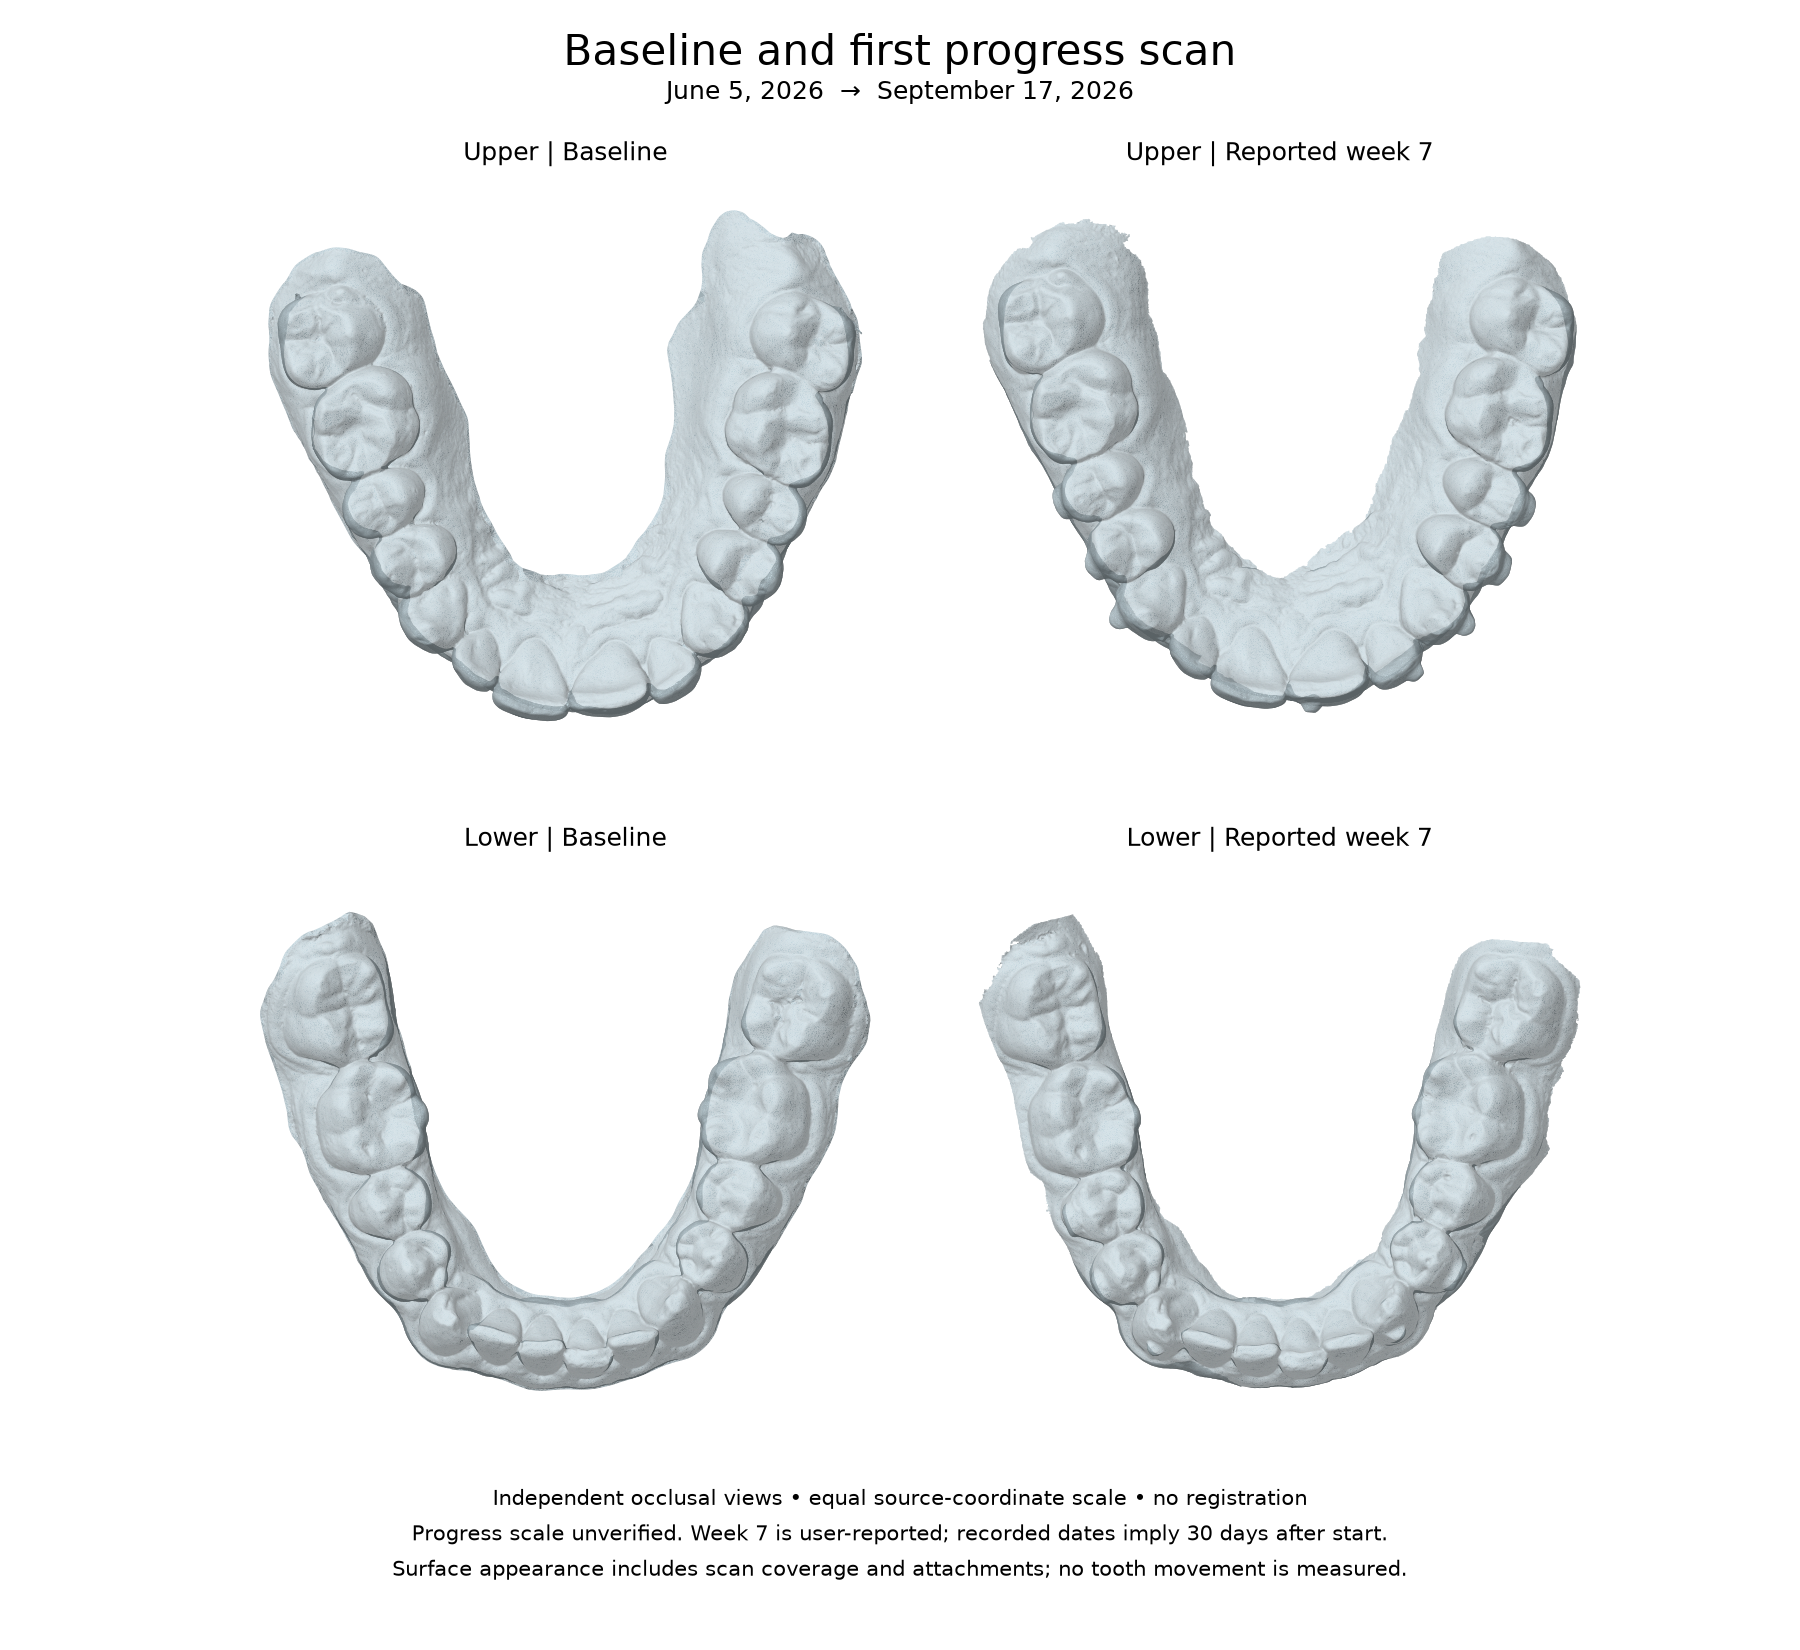
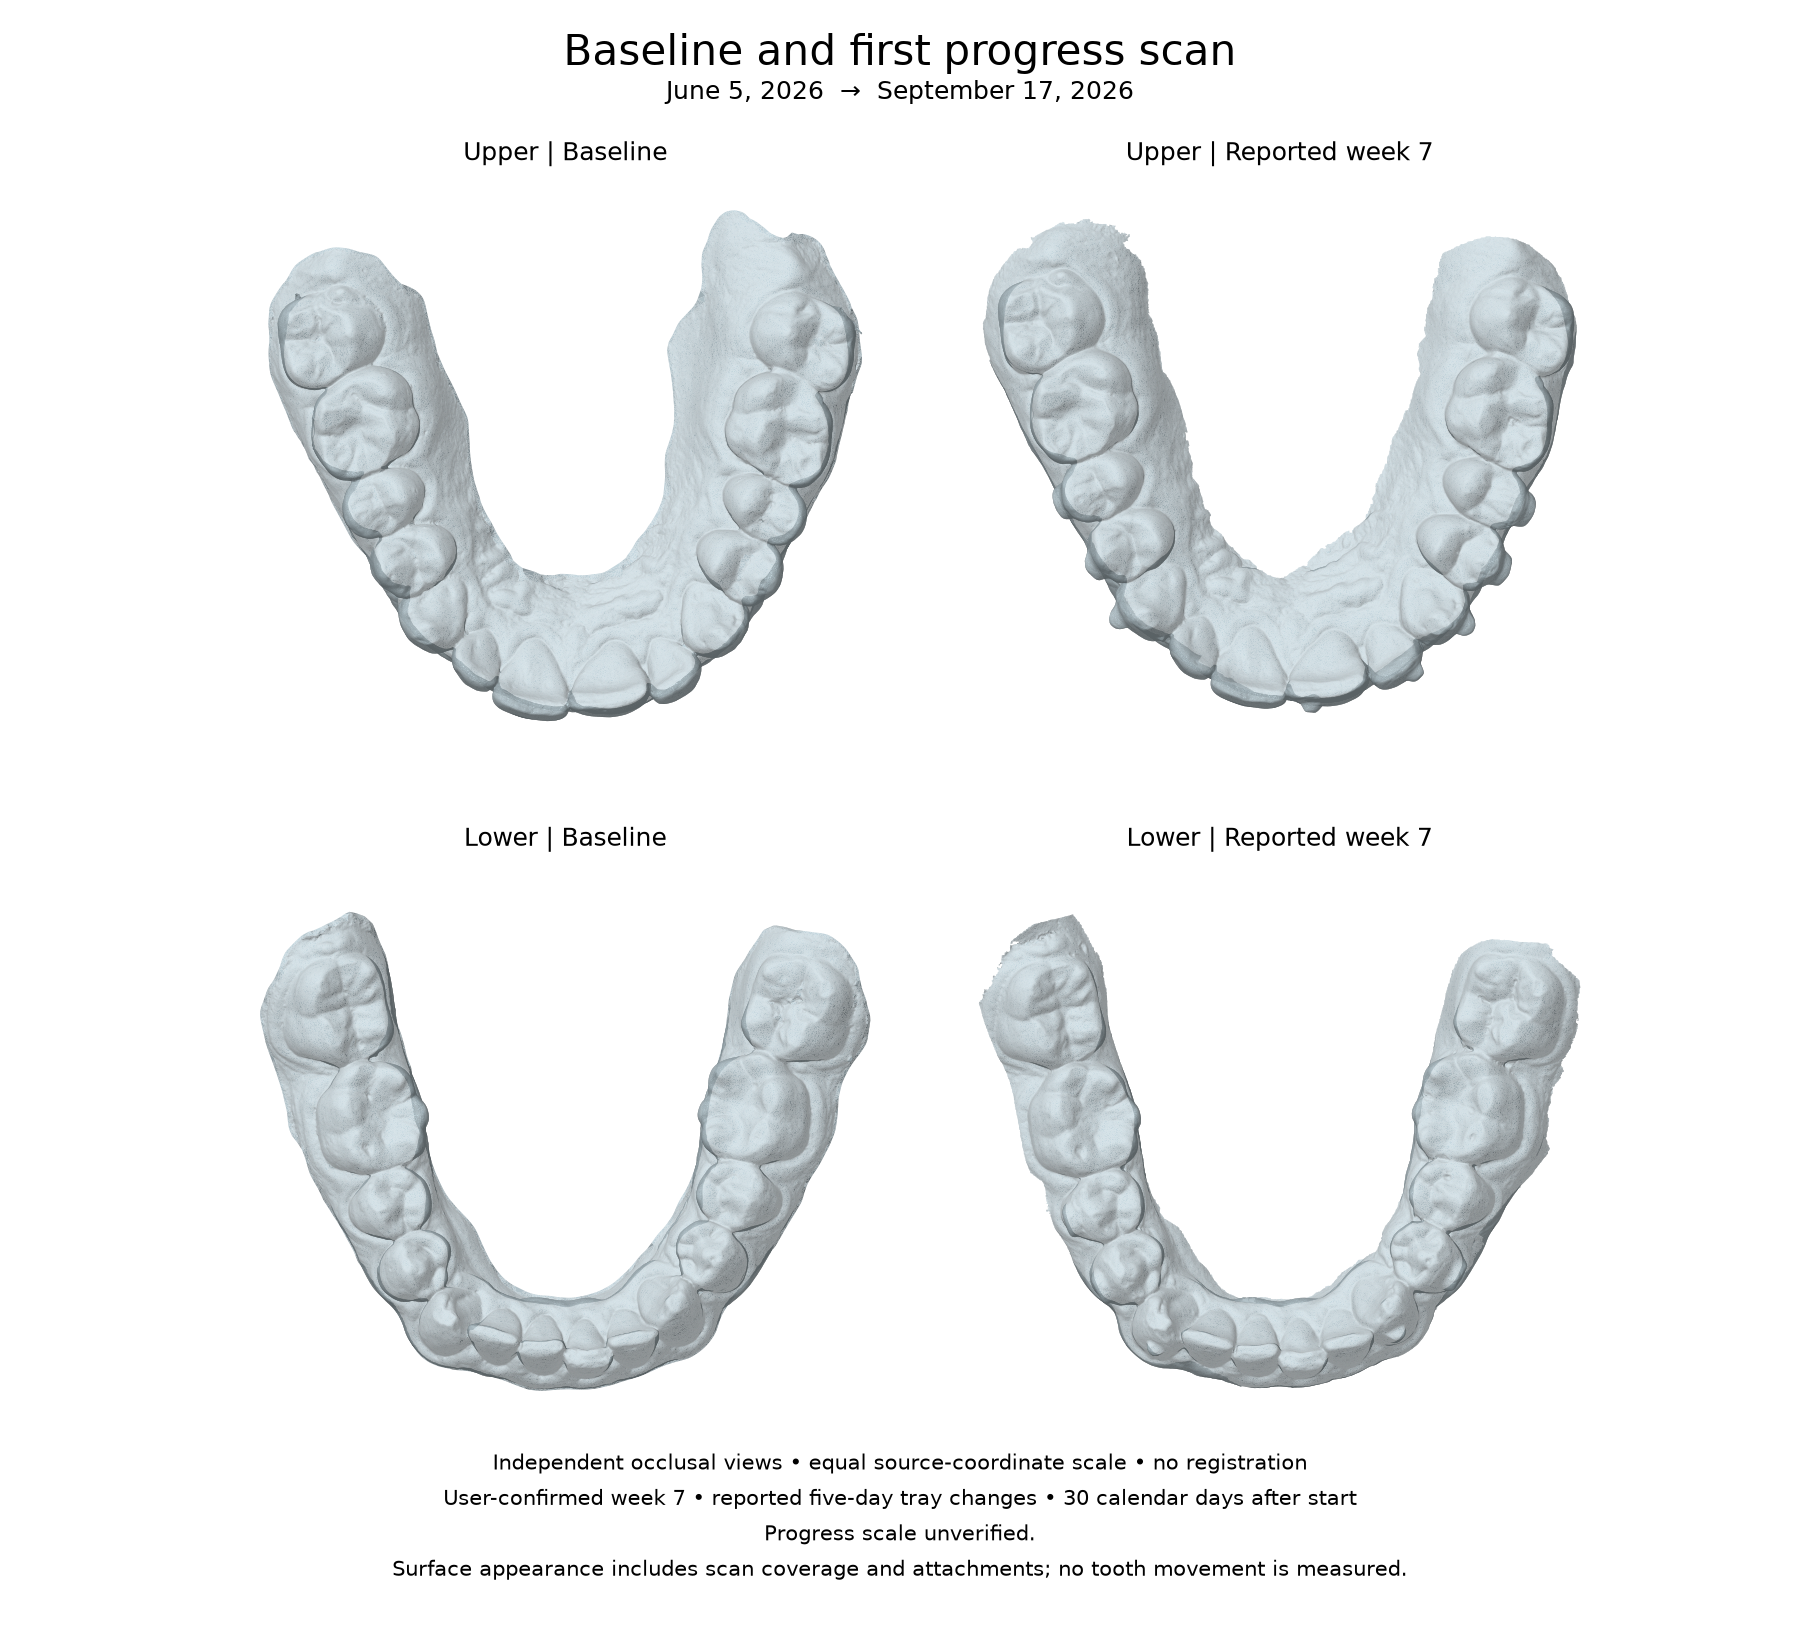
Clarify week 7 progress with reported five-day tray changes
Record the contributor-confirmed progress label and wear interval while retaining source dates and calendar elapsed time. Update case metadata, notes, comparison figure, and regression assertions; leave the historical tray-5 observation intact.

Changed region(s): [[0.2489, 0.8655, 0.7467, 0.9582]]

diff --git a/tests/test_canonical_progress.py b/tests/test_canonical_progress.py
@@ -53,12 +53,18 @@ def test_new_visits_do_not_inherit_baseline_benchmark_review():
     }
 
 
-def test_timeline_preserves_reported_week_and_date_conflict():
+def test_timeline_preserves_confirmed_progress_and_calendar_days():
     timeline = json.loads((CASE / "longitudinal-record.json").read_text())
     assert timeline["timing"]["reported_week"] == 7
     assert timeline["timing"]["recorded_treatment_start_to_progress_days"] == 30
-    assert timeline["timing"]["status"] == "unresolved-date-week-discrepancy"
+    assert timeline["timing"]["status"] == "user-confirmed-progress-label"
+    assert timeline["timing"]["reported_wear_interval_days"] == 5
+    assert timeline["timing"]["wear_interval_start_date"] is None
     assert timeline["comparison"]["final_scan_available"] is False
     context = json.loads((CASE / "treatment-context.json").read_text())
     assert context["reported_progress"]["tray_number"] == 5
     assert context["progress_records"][0]["reported_tray_number"] is None
+    assert context["progress_records"][0]["wear_interval_days"] == 5
+    assert context["reported_progress"]["wear_interval_days"] is None
+    manifest = read_manifest(CASE / "manifest.json")
+    assert manifest.plan_summary.wear_interval_days == 5

diff --git a/tools/compare_canonical_progress.py b/tools/compare_canonical_progress.py
@@ -93,7 +93,8 @@ def main() -> None:
     fig.text(0.5, 0.94, "June 5, 2026  →  September 17, 2026", ha="center", fontsize=12)
     fig.text(0.5, 0.045,
              "Independent occlusal views • equal source-coordinate scale • no registration\n"
-             "Progress scale unverified. Week 7 is user-reported; recorded dates imply 30 days after start.\n"
+             "User-confirmed week 7 • reported five-day tray changes • 30 calendar days after start\n"
+             "Progress scale unverified.\n"
              "Surface appearance includes scan coverage and attachments; no tooth movement is measured.",
              ha="center", fontsize=10, linespacing=1.7)
     fig.subplots_adjust(top=0.90, bottom=0.12, hspace=0.14, wspace=0.05)

diff --git a/ui/example-scans/canonical-orthocad-001/outcome-notes.md b/ui/example-scans/canonical-orthocad-001/outcome-notes.md
@@ -2,7 +2,8 @@
 
 This is the first longitudinal update for specimen
 `spec-07b7031938c84b1a9c98517b8bc4cdd3` (the existing User 1 sample).
-The contributor identifies the new pair as **week 7**. It is a progress record;
+The contributor confirms the new pair as **week 7**, explaining that trays were
+being changed every **five days**. It is a progress record;
 no final outcome or treatment-effectiveness assessment has been supplied.
 
 ![Independent baseline and progress scan views](progress-01-comparison.png)
@@ -26,9 +27,11 @@ coverage, gingiva, attachments, and orientation can affect apparent changes.
 | Progress export | 2026-09-21 | Source XML export date |
 
 The scans are **104 days apart**. The recorded treatment start is **30 days
-before the progress scan**. That interval does not establish week 7. Both the
-contributor's week label and source dates are preserved pending clarification;
-neither export time nor the XML treatment-stage code establishes a tray number.
+before the progress scan**. The contributor clarified that the **week 7** label
+reflects progress with **five-day tray changes**, rather than seven elapsed
+calendar weeks. The source dates remain unchanged. The date when the five-day
+schedule began and the actual tray per arch were not supplied; neither export
+time nor the XML treatment-stage code establishes a tray number.
 The first progress sequence index is `1`, meaning the first contributed progress
 visit, not tray 1 or week 1. Machine-readable events and missing fields are in
 [longitudinal-record.json](longitudinal-record.json).
@@ -61,9 +64,11 @@ The previous **38-tray plan**, historical **tray 5** report, reported attachment
 placement correspondence, partial unreviewed attachment transcription, and
 reported absence of IPR as of 2026-06-18 remain in
 [treatment-context.json](treatment-context.json). The new export supplies no
-confirmed current tray, wear interval, adherence, updated IPR, attachment
+confirmed current tray, adherence, updated IPR, attachment
 inventory, refinement history, or final result. Empty source fields are not
 treated as evidence that an intervention did not occur.
+The five-day wear interval comes from the contributor's follow-up clarification,
+not the source export. It describes reported practice, not a recommended schedule.
 
 ![Source-rendered progress gallery](progress-01-gallery.jpg)
 

diff --git a/ui/example-scans/canonical-orthocad-001/README.md b/ui/example-scans/canonical-orthocad-001/README.md
@@ -4,8 +4,9 @@ The case now includes a **first progress scan pair, reported as week 7**, under
 the same specimen ID. See [the baseline/progress comparison and full case
 timeline](outcome-notes.md), [machine-readable events](longitudinal-record.json),
 and [redacted progress source metadata](progress-01-source-metadata.json).
-The source scanning date is September 17, 2026; this is 30 days after the recorded
-treatment start, so the week/date discrepancy remains explicit. The two new STLs
+The contributor confirms week 7 and reports five-day tray changes. The source
+scanning date is September 17, 2026, 30 days after the recorded treatment start;
+the progress label does not mean seven elapsed calendar weeks. The two new STLs
 and six source-rendered JPEG views retain their original bytes with neutral
 filenames. Progress scale and cross-time registration are unverified.
 
@@ -28,8 +29,10 @@ establish same-session acquisition or a validated STL-to-CBCT registration.
 The user reports a **38-tray plan**, **tray 5 at the time of the report**, and
 attachments present. **The user confirms that actual attachment locations match
 the reference video.** This is user-confirmed placement correspondence; the
-simulation alone does not independently verify physical placement. The progress
-observation date, wear interval, and attachment placement date are not yet recorded.
+simulation alone does not independently verify physical placement. The historical
+tray-5 observation date and attachment placement date are not yet recorded.
+For the progress update, the contributor reports five-day tray changes; the date
+that schedule began is unknown.
 `attachment-transcription.json` records a partial model visual transcription of
 the red attachment markers using FDI numbering: **11, 12, 33, 34, 43, 44**.
 It includes tooth names, Universal numbering equivalents, video timestamps, and

diff --git a/docs/DATA_CONTRIBUTION.md b/docs/DATA_CONTRIBUTION.md
@@ -67,8 +67,9 @@ commit only redacted metadata or reviewed/safe derived anatomy.
 
 The sample now also includes a first progress pair, six source-rendered views,
 and a [baseline/progress record](../ui/example-scans/canonical-orthocad-001/outcome-notes.md).
-Its existing specimen ID connects the visits. The reported week and conflicting
-date interval are recorded separately, and unverified scale prevents millimeter
+Its existing specimen ID connects the visits. The confirmed week-7 progress label,
+reported five-day tray changes, and elapsed calendar days are recorded separately;
+unverified scale prevents millimeter
 bounds-proxy reporting. A progress sequence number counts contributed visits;
 it must not be interpreted as a treatment week or tray number.
 
